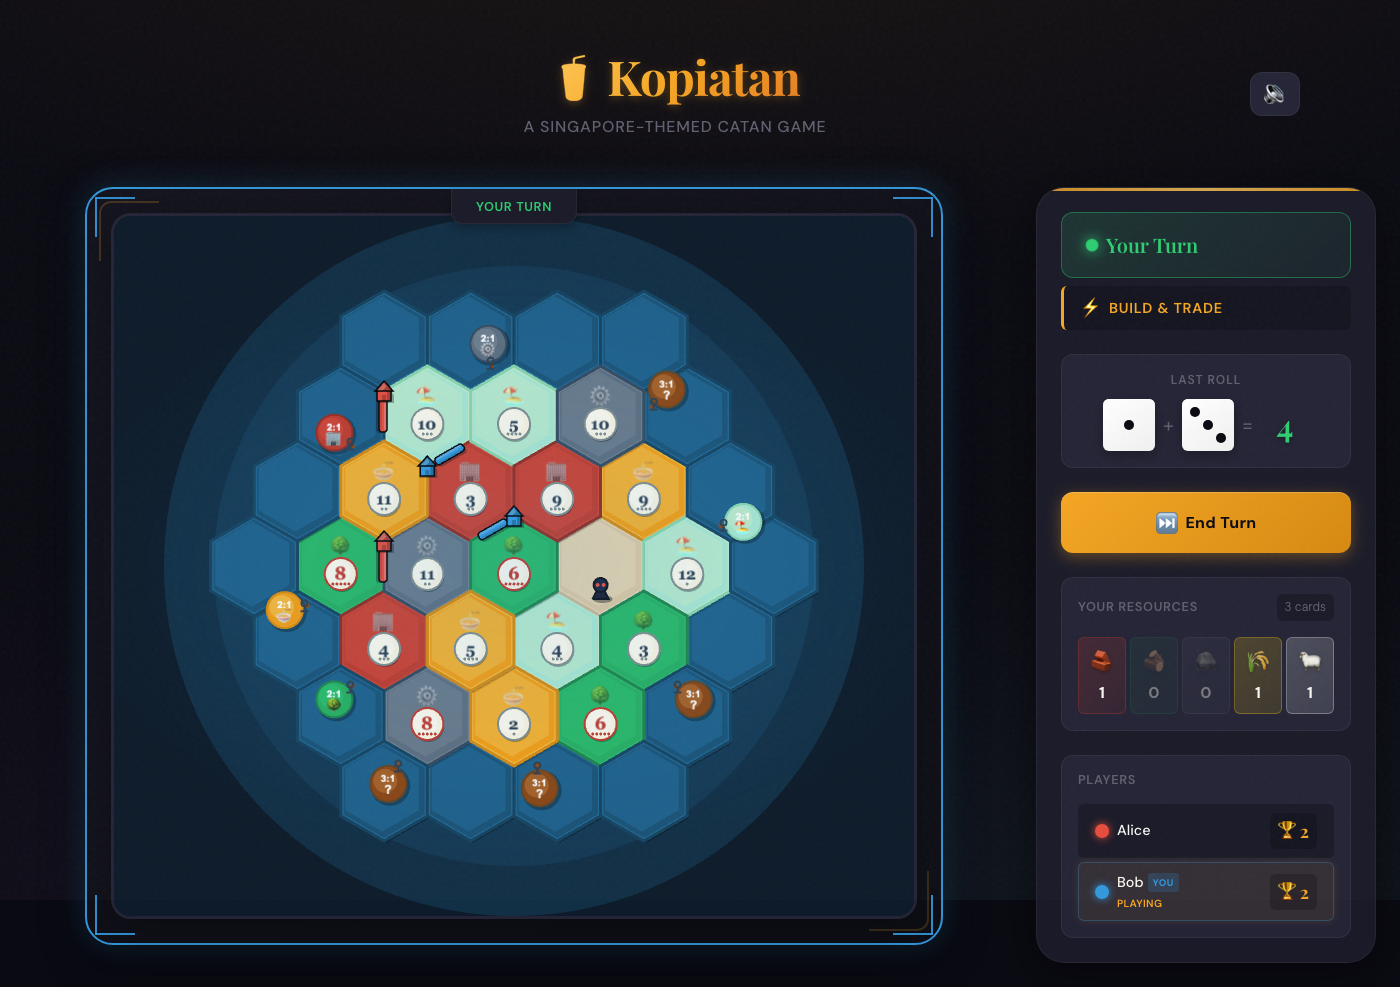
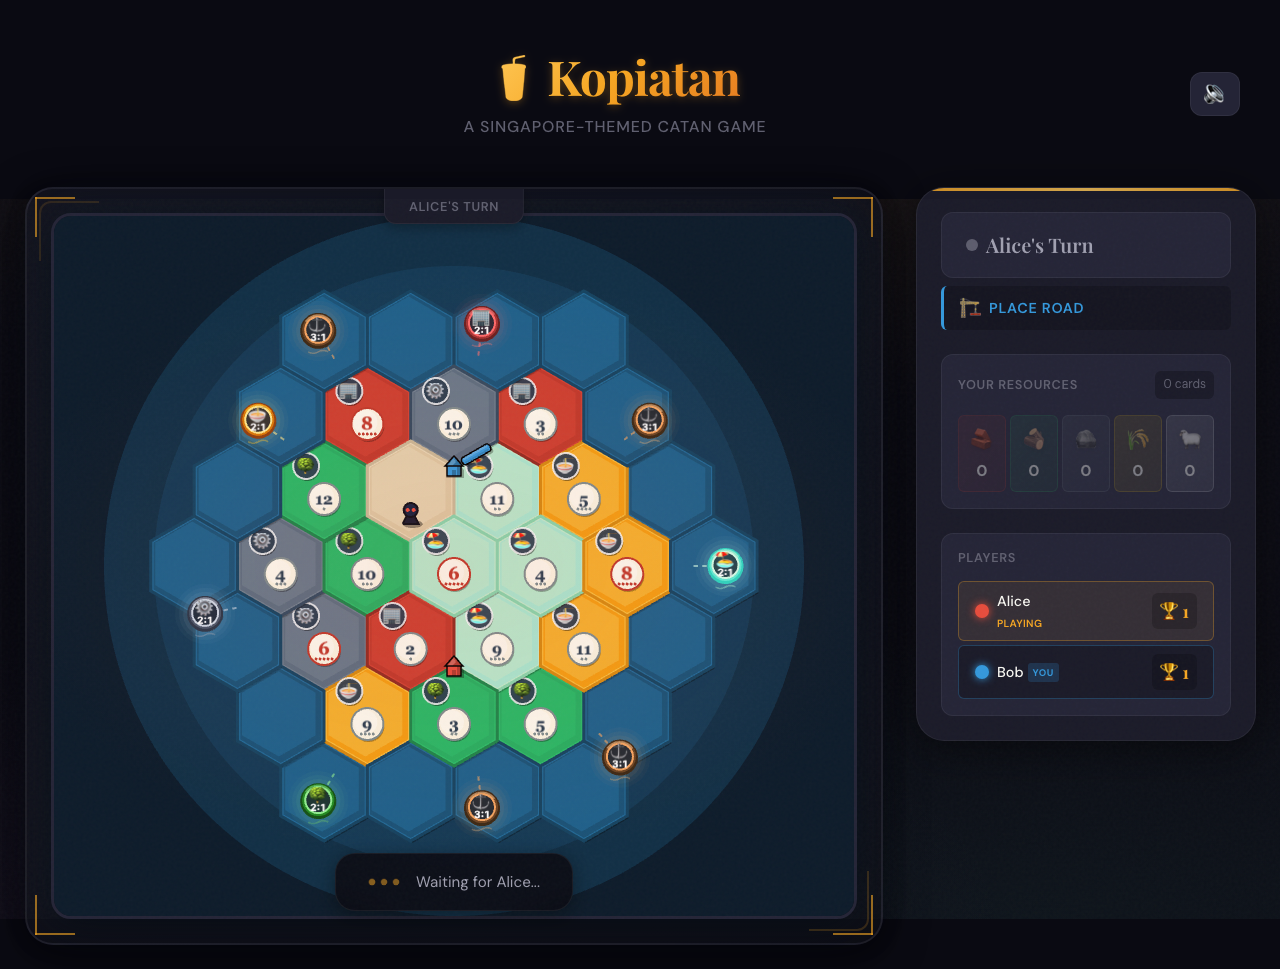
Redesign ports with cleaner glowing buoy style
- Replace complex dock/pier/boat design with simple glowing buoy markers
- Add dashed connecting lines from ports to board edges
- Use circular markers with resource icons and trade ratios (2:1/3:1)
- Add glow effects and wave decorations for visual appeal
- Improve resource icon badges with dark backgrounds for better visibility
- Update screenshots with new UI design
- Clean up unused screenshot files

diff --git a/frontend/src/game/renderer.ts b/frontend/src/game/renderer.ts
@@ -88,14 +88,23 @@ function getResourceSymbol(resource: Resource): string {
   return symbols[resource];
 }
 
-// Port colors
+// Port colors - warm amber accents for Tropical Night Market theme
 const PORT_COLORS = {
-  Generic: { base: 0x8b4513, highlight: 0xcd853f, shadow: 0x654321 }, // Brown for generic 3:1
-  Brick: { base: 0xc0392b, highlight: 0xe74c3c, shadow: 0x922b21 },
-  Lumber: { base: 0x27ae60, highlight: 0x2ecc71, shadow: 0x1e8449 },
-  Ore: { base: 0x5d6d7e, highlight: 0x85929e, shadow: 0x34495e },
-  Grain: { base: 0xf39c12, highlight: 0xf7dc6f, shadow: 0xd68910 },
-  Wool: { base: 0xa8e6cf, highlight: 0xdcedc1, shadow: 0x88d4ab },
+  Generic: { base: 0x6b4423, highlight: 0xd4a574, shadow: 0x3d2914, accent: 0xf4a460 }, // Warm brown for generic 3:1
+  Brick: { base: 0xa83232, highlight: 0xe67373, shadow: 0x6b1f1f, accent: 0xff6b6b },
+  Lumber: { base: 0x228b22, highlight: 0x66bb66, shadow: 0x145214, accent: 0x90ee90 },
+  Ore: { base: 0x4a5568, highlight: 0x9ca3af, shadow: 0x2d3748, accent: 0xcbd5e1 },
+  Grain: { base: 0xd97706, highlight: 0xfbbf24, shadow: 0x92400e, accent: 0xfde68a },
+  Wool: { base: 0x5eead4, highlight: 0xa7f3d0, shadow: 0x2dd4bf, accent: 0xd1fae5 },
+};
+
+// Dock wood colors for consistent pier styling
+const DOCK_COLORS = {
+  plank: 0x8b6914,
+  plankHighlight: 0xc9a227,
+  plankShadow: 0x5c4a0f,
+  post: 0x654321,
+  rope: 0xd4a574,
 };
 
 export class BoardRenderer {
@@ -314,17 +323,43 @@ export class BoardRenderer {
     // Draw resource icon for resource tiles
     if (tile.tile_type !== "Ocean" && typeof tile.tile_type === "object" && "Resource" in tile.tile_type) {
       const symbol = getResourceSymbol(tile.tile_type.Resource);
+
+      // Create a container for the resource icon badge
+      const iconContainer = new PIXI.Container();
+      // Position in the upper-left area of the hex to avoid overlapping with dice number
+      iconContainer.position.set(pos.x - 18, pos.y - 25);
+
+      // Draw shadow for depth
+      const iconShadow = new PIXI.Graphics();
+      iconShadow.circle(1, 2, 13);
+      iconShadow.fill({ color: 0x000000, alpha: 0.4 });
+      iconContainer.addChild(iconShadow);
+
+      // Draw background circle - use a contrasting dark color for visibility
+      const bgCircle = new PIXI.Graphics();
+      bgCircle.circle(0, 0, 13);
+      bgCircle.fill({ color: 0x2c3e50, alpha: 0.9 });
+      iconContainer.addChild(bgCircle);
+
+      // Draw border ring for extra contrast
+      const borderRing = new PIXI.Graphics();
+      borderRing.circle(0, 0, 13);
+      borderRing.stroke({ color: 0xffffff, width: 2, alpha: 0.8 });
+      iconContainer.addChild(borderRing);
+
+      // Draw the emoji icon - larger and fully opaque
       const icon = new PIXI.Text({
         text: symbol,
         style: {
-          fontSize: 18,
+          fontSize: 14,
           fontFamily: 'system-ui',
         }
       });
       icon.anchor.set(0.5);
-      icon.position.set(pos.x, pos.y - 20);
-      icon.alpha = 0.6;
-      this.boardContainer.addChild(icon);
+      icon.position.set(0, 0);
+      iconContainer.addChild(icon);
+
+      this.boardContainer.addChild(iconContainer);
     }
 
     // Draw dice number
@@ -443,9 +478,8 @@ export class BoardRenderer {
     const edgePos = edgeToPixel(harbor.edge, this.hexSize);
 
     // Calculate position offset - ports should be rendered on the ocean side of the edge
-    // We'll offset the port marker outward from the board center
     const centerDist = Math.sqrt(edgePos.x * edgePos.x + edgePos.y * edgePos.y);
-    const offsetScale = centerDist > 0 ? 35 / centerDist : 0;
+    const offsetScale = centerDist > 0 ? 55 / centerDist : 0;
     const offsetX = edgePos.x * offsetScale;
     const offsetY = edgePos.y * offsetScale;
 
@@ -466,96 +500,137 @@ export class BoardRenderer {
     const colorKey = isGeneric ? "Generic" : (resource || "Generic");
     const colors = PORT_COLORS[colorKey as keyof typeof PORT_COLORS] || PORT_COLORS.Generic;
 
-    // Draw dock/pier connecting to edge
-    const pier = new PIXI.Graphics();
-    const pierLength = 25;
+    // Calculate angle from port to edge (pointing toward the board)
     const angle = Math.atan2(-offsetY, -offsetX);
-    pier.moveTo(0, 0);
-    pier.lineTo(Math.cos(angle) * pierLength, Math.sin(angle) * pierLength);
-    pier.stroke({ color: 0x8b4513, width: 4 }); // Brown pier
-    container.addChild(pier);
 
-    // Draw port marker shadow
+    // --- Draw connecting dashed line from port to edge ---
+    const lineLength = 35;
+    const dashCount = 4;
+    const dashLength = lineLength / (dashCount * 2);
+
+    for (let i = 0; i < dashCount; i++) {
+      const startT = (i * 2 + 0.3) / (dashCount * 2);
+      const endT = (i * 2 + 1.3) / (dashCount * 2);
+
+      const dash = new PIXI.Graphics();
+      dash.moveTo(
+        Math.cos(angle) * lineLength * startT,
+        Math.sin(angle) * lineLength * startT
+      );
+      dash.lineTo(
+        Math.cos(angle) * lineLength * endT,
+        Math.sin(angle) * lineLength * endT
+      );
+      dash.stroke({ color: colors.accent, width: 2, alpha: 0.6 });
+      container.addChild(dash);
+    }
+
+    // --- Draw glowing beacon/buoy marker ---
+    const buoyRadius = 18;
+
+    // Outer glow effect (multiple layers)
+    for (let i = 3; i >= 0; i--) {
+      const glow = new PIXI.Graphics();
+      const glowRadius = buoyRadius + i * 4;
+      glow.circle(0, 0, glowRadius);
+      glow.fill({ color: colors.accent, alpha: 0.08 - i * 0.015 });
+      container.addChild(glow);
+    }
+
+    // Shadow under the buoy
     const shadow = new PIXI.Graphics();
-    shadow.circle(2, 2, 20);
-    shadow.fill({ color: 0x000000, alpha: 0.3 });
+    shadow.ellipse(2, 3, buoyRadius * 0.9, buoyRadius * 0.5);
+    shadow.fill({ color: 0x000000, alpha: 0.25 });
     container.addChild(shadow);
 
-    // Draw port marker base (circle with ship wheel design)
-    const base = new PIXI.Graphics();
-    base.circle(0, 0, 18);
-    base.fill({ color: colors.base });
-    container.addChild(base);
+    // Main buoy body - circular with gradient-like layering
+    const buoyBase = new PIXI.Graphics();
+    buoyBase.circle(0, 0, buoyRadius);
+    buoyBase.fill({ color: colors.shadow });
+    container.addChild(buoyBase);
 
-    // Draw inner highlight
+    const buoyMid = new PIXI.Graphics();
+    buoyMid.circle(0, -1, buoyRadius - 2);
+    buoyMid.fill({ color: colors.base });
+    container.addChild(buoyMid);
+
+    // Highlight crescent on top-left
     const highlight = new PIXI.Graphics();
-    highlight.circle(-3, -3, 12);
-    highlight.fill({ color: colors.highlight, alpha: 0.4 });
+    highlight.arc(0, 0, buoyRadius - 3, -Math.PI * 0.8, -Math.PI * 0.2);
+    highlight.stroke({ color: colors.highlight, width: 3, alpha: 0.7 });
     container.addChild(highlight);
 
-    // Draw border
-    const border = new PIXI.Graphics();
-    border.circle(0, 0, 18);
-    border.stroke({ color: colors.shadow, width: 2 });
-    container.addChild(border);
+    // Inner circle for content
+    const innerCircle = new PIXI.Graphics();
+    innerCircle.circle(0, -1, buoyRadius - 5);
+    innerCircle.fill({ color: 0x1a2634, alpha: 0.85 });
+    innerCircle.stroke({ color: colors.accent, width: 2 });
+    container.addChild(innerCircle);
 
-    // Draw trade ratio text
-    const ratio = isGeneric ? "3:1" : "2:1";
-    const ratioText = new PIXI.Text({
-      text: ratio,
-      style: {
-        fontSize: 10,
-        fontWeight: 'bold',
-        fontFamily: 'Arial, sans-serif',
-        fill: 0xffffff,
-      }
-    });
-    ratioText.anchor.set(0.5);
-    ratioText.position.set(0, -5);
-    container.addChild(ratioText);
-
-    // Draw resource icon or "?" for generic
+    // --- Content inside the buoy ---
     if (isGeneric) {
-      const questionMark = new PIXI.Text({
-        text: "?",
+      // Generic port: Show ⚓ anchor and 3:1 ratio
+      const anchorIcon = new PIXI.Text({
+        text: "⚓",
         style: {
-          fontSize: 12,
+          fontSize: 14,
+          fontFamily: 'system-ui',
+        }
+      });
+      anchorIcon.anchor.set(0.5);
+      anchorIcon.position.set(0, -6);
+      container.addChild(anchorIcon);
+
+      // Trade ratio
+      const ratioText = new PIXI.Text({
+        text: "3:1",
+        style: {
+          fontSize: 10,
           fontWeight: 'bold',
-          fontFamily: 'Arial, sans-serif',
+          fontFamily: 'system-ui, sans-serif',
           fill: 0xffffff,
         }
       });
-      questionMark.anchor.set(0.5);
-      questionMark.position.set(0, 6);
-      container.addChild(questionMark);
+      ratioText.anchor.set(0.5);
+      ratioText.position.set(0, 6);
+      container.addChild(ratioText);
+
     } else if (resource) {
+      // Specific resource port: Show resource icon and 2:1 ratio
       const symbol = getResourceSymbol(resource);
       const icon = new PIXI.Text({
         text: symbol,
         style: {
-          fontSize: 12,
+          fontSize: 14,
           fontFamily: 'system-ui',
         }
       });
       icon.anchor.set(0.5);
-      icon.position.set(0, 6);
+      icon.position.set(0, -6);
       container.addChild(icon);
+
+      // Trade ratio
+      const ratioText = new PIXI.Text({
+        text: "2:1",
+        style: {
+          fontSize: 10,
+          fontWeight: 'bold',
+          fontFamily: 'system-ui, sans-serif',
+          fill: 0xffffff,
+        }
+      });
+      ratioText.anchor.set(0.5);
+      ratioText.position.set(0, 6);
+      container.addChild(ratioText);
     }
 
-    // Draw anchor icon at the pier connection point
-    const anchorX = Math.cos(angle) * (pierLength - 5);
-    const anchorY = Math.sin(angle) * (pierLength - 5);
-    const anchor = new PIXI.Graphics();
-    // Simple anchor shape
-    anchor.circle(anchorX, anchorY - 3, 3);
-    anchor.stroke({ color: 0x2c3e50, width: 2 });
-    anchor.moveTo(anchorX, anchorY);
-    anchor.lineTo(anchorX, anchorY + 6);
-    anchor.stroke({ color: 0x2c3e50, width: 2 });
-    anchor.moveTo(anchorX - 4, anchorY + 5);
-    anchor.lineTo(anchorX + 4, anchorY + 5);
-    anchor.stroke({ color: 0x2c3e50, width: 2 });
-    container.addChild(anchor);
+    // Small decorative wave lines under the buoy
+    const waves = new PIXI.Graphics();
+    waves.moveTo(-10, buoyRadius + 3);
+    waves.quadraticCurveTo(-5, buoyRadius + 6, 0, buoyRadius + 3);
+    waves.quadraticCurveTo(5, buoyRadius, 10, buoyRadius + 3);
+    waves.stroke({ color: colors.highlight, width: 1.5, alpha: 0.4 });
+    container.addChild(waves);
 
     this.portsContainer.addChild(container);
   }
